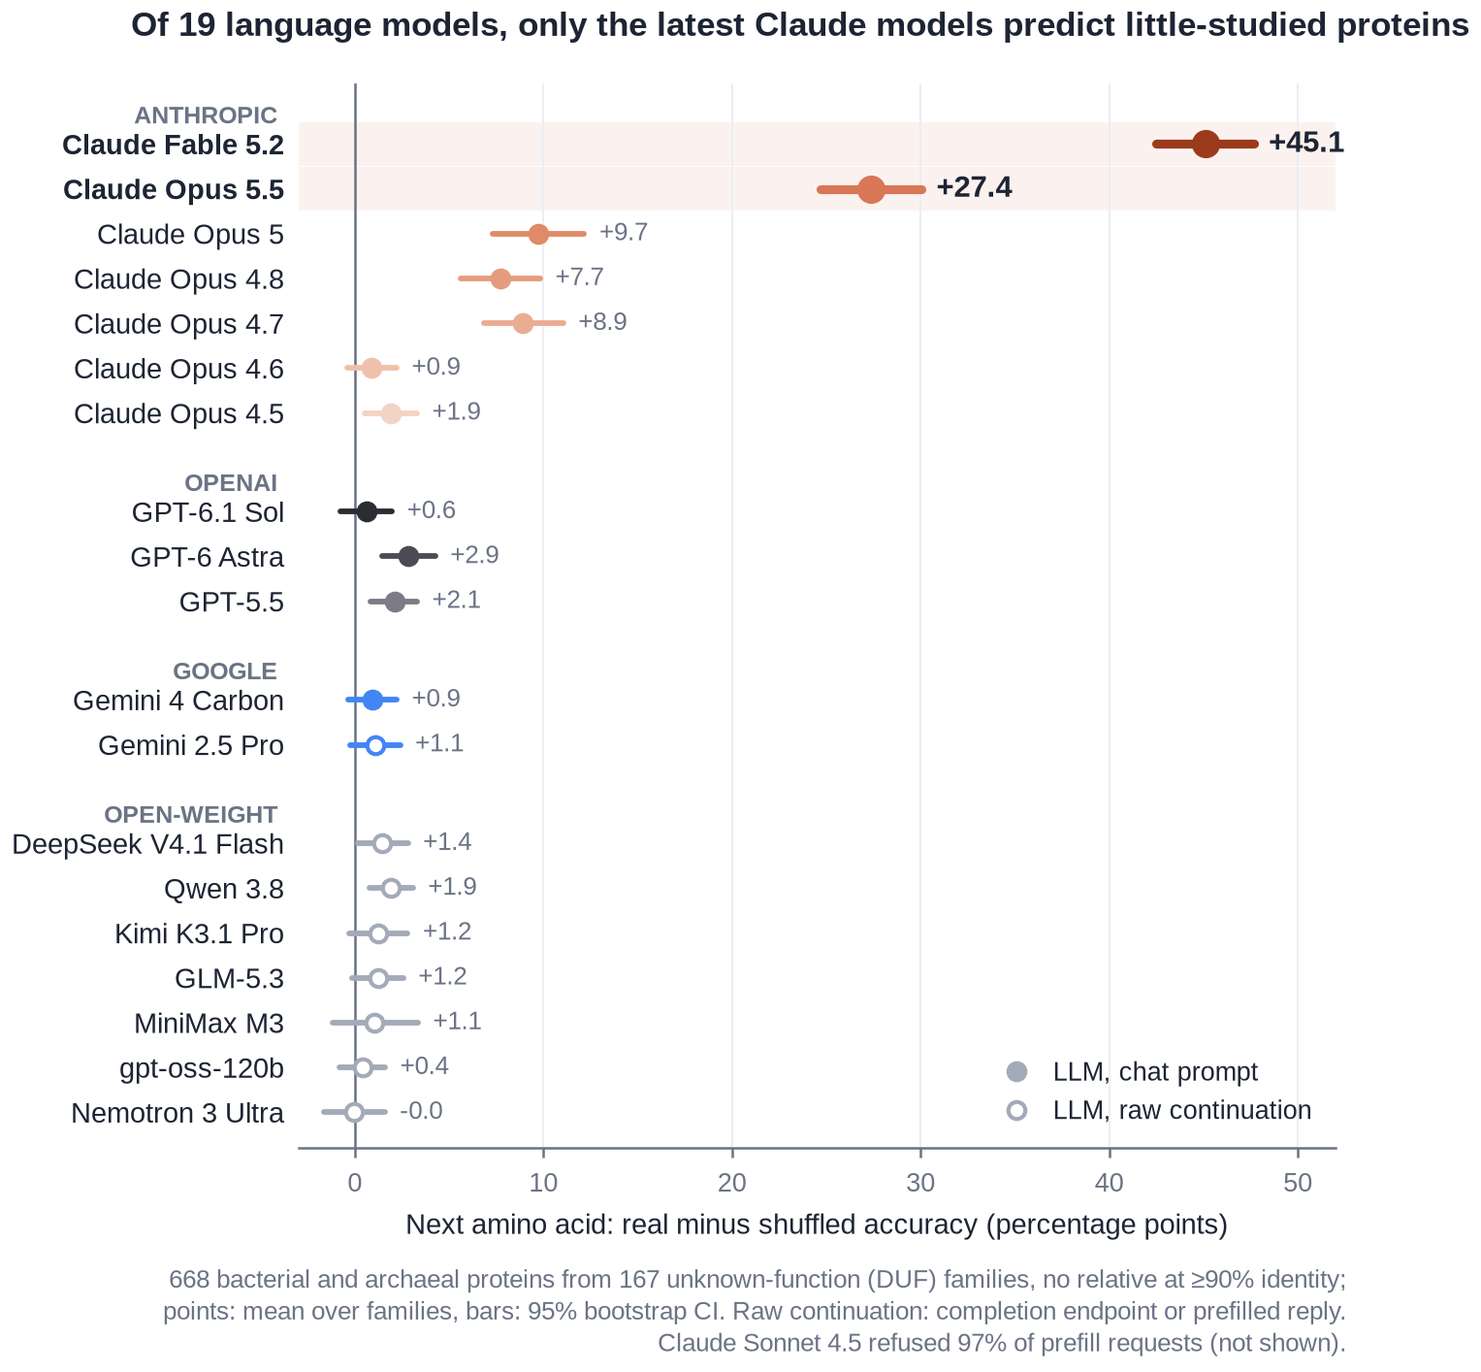
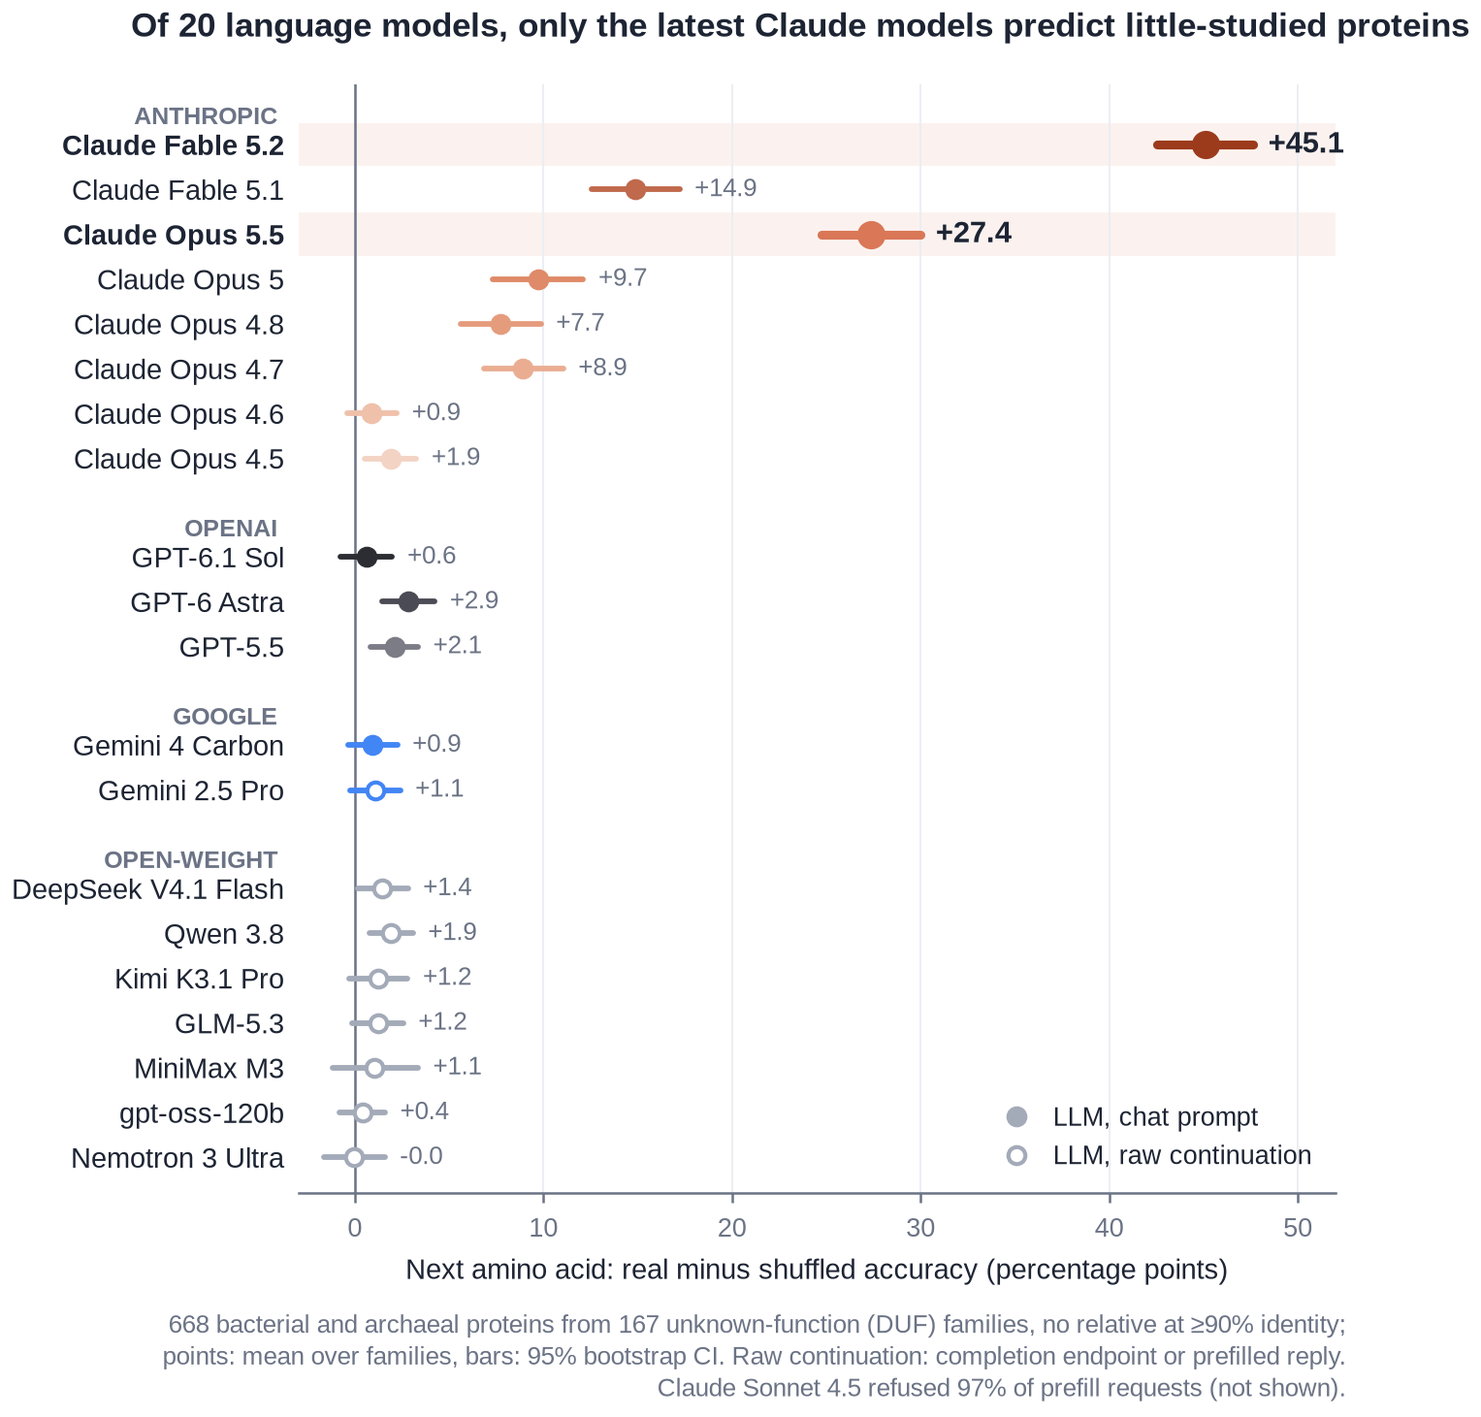
Bioseq post: Fable 5.1, small-family experiment, cleaner family-size figure

diff --git a/_posts/2026-11-16-claude-opus-5-5-protein-sequences.md b/_posts/2026-11-16-claude-opus-5-5-protein-sequences.md
@@ -93,29 +93,35 @@ We also looked at longer continuations: how often a model gets all 10 requested 
 ## Results: only the latest Claude models predict them
 
 <figure class="bp-figure" markdown="0">
-  <img src="{{ '/assets/img/llm-bioseq-probe/fig1_protein.png' | relative_url }}?v=20261117d" alt="Forest plot of the real-minus-shuffled gap for 19 language models: Claude Fable 5.2 at +45.1 points, Claude Opus 5.5 at +27.4, earlier Claude Opus models up to 10, every other model between 0 and 3.">
+  <img src="{{ '/assets/img/llm-bioseq-probe/fig1_protein.png' | relative_url }}?v=20261117e" alt="Forest plot of the real-minus-shuffled gap for 20 language models: Claude Fable 5.2 at +45.1 points, Claude Opus 5.5 at +27.4, Claude Fable 5.1 at +14.9, earlier Claude Opus models up to 10, every other model between 0 and 3.">
   <figcaption>Filled points: the chat prompt. Hollow points: raw next-token continuation of the FASTA text, through a completion endpoint or a prefilled reply, for models that allow it.</figcaption>
 </figure>
 
-Fable 5.2 gets the next amino acid right 54% of the time on real proteins and 9% on shuffled ones, a gap of 45.1 points (95% CI 42.5 to 47.6) that shows up in 98% of families. Opus 5.5's gap is 27.4 points (24.7 to 30.0), in 95% of families. Within the Opus line, Opus 4.5 and 4.6 show nothing, Opus 4.7 to 5 reach 8 to 10 points, and Opus 5.5 jumps to 27. All three GPT models, the newest GPT-6.1 Sol included, stay below 3 points, and the open-weight models stay flat even when they simply continue the raw FASTA text, the way they were trained. The lead is not just on the first residue: at the tenth residue Fable 5.2 is still 38.7 points ahead and Opus 5.5 18.5, and both write runs of correct residues that no other model, and no shuffled protein, gets close to (Appendix B).
+Fable 5.2 gets the next amino acid right 54% of the time on real proteins and 9% on shuffled ones, a gap of 45.1 points (95% CI 42.5 to 47.6) that shows up in 98% of families. Opus 5.5's gap is 27.4 points (24.7 to 30.0), in 95% of families. Within the Opus line, Opus 4.5 and 4.6 show nothing, Opus 4.7 to 5 reach 8 to 10 points, and Opus 5.5 jumps to 27. Fable 5.1 is at 14.9 points, so most of Fable 5.2's lead is new in that release. All three GPT models, the newest GPT-6.1 Sol included, stay below 3 points, and the open-weight models stay flat even when they simply continue the raw FASTA text, the way they were trained. The lead is not just on the first residue: at the tenth residue Fable 5.2 is still 38.7 points ahead and Opus 5.5 18.5, and both write runs of correct residues that no other model, and no shuffled protein, gets close to (Appendix B).
 
 ## Comparison with protein language models
 
 Protein language models learn only from sequences, which makes them a natural yardstick. The closest match to an LLM is ProtGPT3<d-cite key="garibbo2026protgpt3"></d-cite>, released this year: it reads a protein left to right and predicts the next residue, and its 10-billion-parameter version is the largest open model of its kind. Given exactly the same input, Opus 5.5 matches it and Fable 5.2 beats it by 17 points.
 
 <figure class="bp-figure" markdown="0">
-  <img src="{{ '/assets/img/llm-bioseq-probe/fig6_protein_lm.png' | relative_url }}?v=20261117d" alt="Dot plot: Claude Fable 5.2 +45.1 at the top, then ProtGPT3-10B +27.7 and Claude Opus 5.5 +27.4; ESM C 600M +13.0, ProtGPT3-1.3B +11.6, ProtGPT2 +10.2, ESM3-open +8.5 and ESM-2 650M +7.0 well below.">
+  <img src="{{ '/assets/img/llm-bioseq-probe/fig6_protein_lm.png' | relative_url }}?v=20261117e" alt="Dot plot: Claude Fable 5.2 +45.1 at the top, then ProtGPT3-10B +27.7 and Claude Opus 5.5 +27.4; ESM C 600M +13.0, ProtGPT3-1.3B +11.6, ProtGPT2 +10.2, ESM3-open +8.5 and ESM-2 650M +7.0 well below.">
 </figure>
 
-ProtGPT3-10B gets more answers right than Opus 5.5 (38.4% vs 34.9%), but it also does better on shuffled proteins (10.7% vs 7.5%) because it knows amino acid composition better, so the gap, which is what each model knows about order, comes out the same. Fable 5.2 gets 54.1% right on real proteins and 9.0% on shuffled ones. ESM models are built to see both sides of a residue, so this test is harder for them. Appendix C has all seven models.
+ProtGPT3-10B gets more answers right than Opus 5.5 (38.4% vs 34.9%), but it also does better on shuffled proteins (10.7% vs 7.5%) because it knows amino acid composition better, so the gap, which is what each model knows about order, comes out the same. Fable 5.2 gets 54.1% right on real proteins and 9.0% on shuffled ones. ESM models are built to see both sides of a residue, so this test is harder for them. Appendix D has all seven models.
 
 ## Evidence that this comes from training data
 
 <figure class="bp-figure" markdown="0">
-  <img src="{{ '/assets/img/llm-bioseq-probe/fig5_family_size.png' | relative_url }}?v=20261117d" alt="Line chart: Claude Opus 5.5 and ProtGPT3-10B both rise from about 21 to 24 points in families of 300 to 1,000 proteins to 37 points in families over 10,000; Claude Fable 5.2 stays between 41 and 46 in every bin; other models stay near zero.">
+  <img src="{{ '/assets/img/llm-bioseq-probe/fig5_family_size.png' | relative_url }}?v=20261117e" alt="Line chart over seven family-size bins from 20 to over 10,000 proteins: Claude Opus 5.5 rises from 8 to 37 points and ProtGPT3-10B from 3 to 37, almost on top of each other; Claude Fable 5.2 rises from 20 to 44 by families of 300 to 1,000 proteins and then levels off.">
 </figure>
 
-If the signal comes from training on sequences, bigger families should be easier, and they are: Opus 5.5 gains 21 points on families of 300 to 1,000 proteins and 37 on families over 10,000 (Spearman 0.27, p = 0.0002). ProtGPT3-10B, trained on nothing but sequences, traces the same curve, and Opus 4.7 to 5 follow it at a lower level. Fable 5.2 is the exception: it is as good on small families as on large ones (rho 0.00). Two other explanations for the signal don't hold up:
+If the signal comes from training on sequences, bigger families should be easier, because the model has seen more of their relatives. To cover a wide range of sizes we added 90 smaller families, 30 each with 20 to 60, 60 to 150 and 150 to 300 proteins, chosen the same way (Appendix F), for 257 families in all. Bigger families are easier:
+
+- Opus 5.5 goes from 8 points in families of 20 to 60 proteins to 37 in families over 10,000, and ProtGPT3-10B, trained on nothing but sequences, from 3 to 37. Across the 257 families the Spearman correlation with family size is 0.50 for Opus 5.5 and 0.46 for ProtGPT3-10B.
+- Fable 5.2 climbs fastest, from 20 points to 44 by families of 300 to 1,000 proteins, then levels off near 45. On the main set alone it looks flat because it has already reached its ceiling there.
+- Every Claude model from Opus 4.7 on follows the same pattern (Spearman 0.30 to 0.50, all p < 10<sup>-6</sup>), while Opus 4.5 and 4.6 stay flat at zero, as do the GPT models (Appendix C).
+
+Two other explanations for the signal don't hold up:
 
 - **Papers.** In the 128 families with no papers at all, the gap is 26.8 points for Opus 5.5 and 45.9 for Fable 5.2, and for Opus 5.5 it still rises with family size (rho 0.28, p = 0.001). Across families it has nothing to do with how many papers exist (rho 0.05).
 - **Reasoning.** Fable 5.2 writes about 30 tokens per answer, and more than half the time Opus 5.5 answers in 15 tokens or fewer, essentially just the answer, and is still right 35.6% of the time (7.3% on shuffled proteins). GPT-6 Astra and GPT-6.1 Sol think for hundreds of tokens per question and stay near 10%.
@@ -123,7 +129,7 @@ If the signal comes from training on sequences, bigger families should be easier
 ## Famous proteins and variant ranking
 
 <figure class="bp-figure" markdown="0">
-  <img src="{{ '/assets/img/llm-bioseq-probe/fig3_known_vs_obscure.png' | relative_url }}?v=20261117d" alt="Dumbbell chart: on well-known proteins many models score high; on obscure proteins Claude Opus 5.5 and ProtGPT3-10B stay high while Gemini 4 Carbon drops to near zero.">
+  <img src="{{ '/assets/img/llm-bioseq-probe/fig3_known_vs_obscure.png' | relative_url }}?v=20261117e" alt="Dumbbell chart: on well-known proteins many models score high; on obscure proteins Claude Opus 5.5 and ProtGPT3-10B stay high while Gemini 4 Carbon drops to near zero.">
 </figure>
 
 Famous proteins are a different story. Many models do well on them, and several recite hundreds of residues letter for letter (Appendix B), because these sequences are everywhere in papers and on the web. Gemini 4 Carbon scores +47.6 on famous vertebrate proteins and falls to +5.3 on obscure ones. Opus 5.5 holds up (+51.9 to +33.3), and so does ProtGPT3-10B (+51.4 to +38.2). This first round predates Fable 5.2 and GPT-6.1 Sol, so they are not in the figure.
@@ -156,7 +162,7 @@ All code, test sets, model outputs and figures are in [llm-bioseq-probe](https:/
 ### A. DNA
 
 <figure class="bp-figure" markdown="0">
-  <img src="{{ '/assets/img/llm-bioseq-probe/fig2_dna.png' | relative_url }}?v=20261117d" alt="Forest plot by genomic region: Claude Opus 5.5 predicts human and mouse coding sequence; nothing clear elsewhere.">
+  <img src="{{ '/assets/img/llm-bioseq-probe/fig2_dna.png' | relative_url }}?v=20261117e" alt="Forest plot by genomic region: Claude Opus 5.5 predicts human and mouse coding sequence; nothing clear elsewhere.">
 </figure>
 
 220-nucleotide windows, 200 shown and 20 to predict, from hg38, mm39 and the bacterial genes behind the test proteins, 500 per region. Non-coding windows contain no repeats, and the control shuffles each window keeping its dinucleotide counts. Opus 5.5 wrote all 20 nucleotides right 25 times in 500 human coding windows; a blind guess does that about once in a trillion. Gemini 4 Carbon blocks most DNA prompts before answering, so it is not shown.
@@ -165,27 +171,48 @@ All code, test sets, model outputs and figures are in [llm-bioseq-probe](https:/
 
 **All 10 residues right.** Each question asks for the next 10 residues. On the 668 little-studied proteins, Claude Fable 5.2 gets all 10 right at 88 real cuts and Opus 5.5 at 12, and neither at any shuffled one. If their residues were independent guesses at their own per-residue accuracy, they would get 15.8 and 0.56 by chance.
 
-**Every position.** Scored one position at a time, the gap falls slowly: from 45.1 points at the first residue to 38.7 at the tenth for Fable 5.2, and from 27.4 to 18.5 for Opus 5.5. Opus 4.7, 4.8 and 5 fade faster, and the other 14 models, including those run as raw continuation, stay near zero all the way.
+**Every position.** Scored one position at a time, the gap falls slowly: from 45.1 points at the first residue to 38.7 at the tenth for Fable 5.2, and from 27.4 to 18.5 for Opus 5.5. Fable 5.1 and Opus 4.7, 4.8 and 5 fade faster, and the other 14 models, including those run as raw continuation, stay near zero all the way.
 
 <figure class="bp-figure" markdown="0">
-  <img src="{{ '/assets/img/llm-bioseq-probe/fig7_by_position.png' | relative_url }}?v=20261117d" alt="Line chart: real-minus-shuffled gap at positions 1 to 10 of the reply; Claude Opus 5.5 falls from 27.4 to 18.5, Opus 4.7 to 5 from about 9 to between 2 and 5, other models near zero.">
+  <img src="{{ '/assets/img/llm-bioseq-probe/fig7_by_position.png' | relative_url }}?v=20261117e" alt="Line chart: real-minus-shuffled gap at positions 1 to 10 of the reply; Claude Opus 5.5 falls from 27.4 to 18.5, Opus 4.7 to 5 from about 9 to between 2 and 5, other models near zero.">
 </figure>
 
 **Runs in a row.** Fable 5.2 gets the first 2 residues right 34% of the time, the first 5 11% and all 10 2.6%; Opus 5.5 16%, 3% and 0.4%. On shuffled proteins neither gets past 3. Once on track they get surer: after one right residue, Opus 5.5 gets the next right 47% of the time, after four in a row 68%.
 
 <figure class="bp-figure" markdown="0">
-  <img src="{{ '/assets/img/llm-bioseq-probe/fig8_runs.png' | relative_url }}?v=20261117d" alt="Line chart: share of replies whose first k residues are all right; Claude Opus 5.5 starts at 35% and stays above other models out to 10 residues, while its shuffled curve drops to zero by 3.">
+  <img src="{{ '/assets/img/llm-bioseq-probe/fig8_runs.png' | relative_url }}?v=20261117e" alt="Line chart: share of replies whose first k residues are all right; Claude Opus 5.5 starts at 35% and stays above other models out to 10 residues, while its shuffled curve drops to zero by 3.">
 </figure>
 
 **Reciting well-known proteins.** At 158 points in well-studied proteins, each model was asked for the next 200 residues at once.
 
 <figure class="bp-figure" markdown="0">
-  <img src="{{ '/assets/img/llm-bioseq-probe/fig4_recall.png' | relative_url }}?v=20261117d" alt="Bar chart: how often each model continues a famous protein letter for letter for 50, 100 and 200 residues.">
+  <img src="{{ '/assets/img/llm-bioseq-probe/fig4_recall.png' | relative_url }}?v=20261117e" alt="Bar chart: how often each model continues a famous protein letter for letter for 50, 100 and 200 residues.">
 </figure>
 
 Opus 5.5 gets past 100 residues 24 times (longest run 305), Gemini 4 Carbon 23 times (201), Opus 5 14 times (325). GPT-6.1 Sol never reaches 100, and GPT-5.5 never gets past 2. 
 
-### C. Protein language models
+### C. Family size for every model
+
+<figure class="bp-figure" markdown="0">
+  <img src="{{ '/assets/img/llm-bioseq-probe/fig5b_family_size_all.png' | relative_url }}?v=20261117e" alt="Line chart: the gap by family size for 12 language models and ProtGPT3-10B; Claude Fable 5.2, Opus 5.5 and ProtGPT3-10B rise steeply, Fable 5.1 and Opus 4.7 to 5 rise at a lower level, Opus 4.5 and 4.6, GPT and Gemini stay near zero.">
+</figure>
+
+| Model | 20–60 | 60–150 | 150–300 | 300–1k | 1k–3k | 3k–10k | >10k | Spearman |
+|---|---|---|---|---|---|---|---|---|
+| Claude Fable 5.2 | +19.5 | +24.0 | +35.5 | +44.1 | +46.0 | +46.4 | +41.5 | 0.38 |
+| Claude Opus 5.5 | +7.9 | +7.4 | +14.4 | +21.2 | +26.0 | +31.7 | +36.7 | 0.50 |
+| ProtGPT3-10B | +3.2 | +6.5 | +10.7 | +23.9 | +25.3 | +30.6 | +37.1 | 0.46 |
+| Claude Fable 5.1 | +2.5 | −0.2 | +3.2 | +9.6 | +14.6 | +17.5 | +23.5 | 0.48 |
+| Claude Opus 5 | −1.6 | −0.2 | +1.2 | +5.6 | +6.4 | +12.8 | +22.8 | 0.36 |
+| Claude Opus 4.8 | +0.5 | +1.4 | +3.7 | +4.4 | +3.6 | +10.6 | +21.1 | 0.30 |
+| Claude Opus 4.7 | +2.8 | −0.8 | +2.8 | +3.3 | +7.5 | +12.3 | +19.7 | 0.36 |
+| Claude Opus 4.6 | −0.5 | +1.5 | +1.3 | +2.7 | −0.1 | +0.9 | −1.5 | −0.03 |
+| Claude Opus 4.5 | +0.2 | +0.5 | −0.5 | +2.6 | +2.7 | +1.9 | −2.6 | 0.05 |
+| GPT-5.5 | −2.2 | +0.8 | +0.7 | +2.7 | +0.4 | +2.6 | +3.8 | 0.14 |
+
+Real minus shuffled, in points, by the number of proteins in the family; Spearman correlation of a family's gap with the log of its size, over all 257 families. GPT-6.1 Sol, GPT-6 Astra and Gemini 4 Carbon are still running on the small-family set and will be added.
+
+### D. Protein language models
 
 | Model | Reads | Input | Real | Shuffled | Real minus shuffled, points (95% CI) |
 |---|---|---|---|---|---|
@@ -199,17 +226,20 @@ Opus 5.5 gets past 100 residues 24 times (longest run 305), Gemini 4 Carbon 23 t
 
 The last row is fill-in-the-blank rather than continuation: ESM-2 also sees the residues after the cut, which the LLMs never get. Every model first passed a sanity check on well-known proteins. Continuing ubiquitin and hemoglobin β from the left, ProtGPT3-10B gets 100% and 84% of residues right; with the whole protein and one residue masked, ESM-2 gets 80% of ubiquitin, ESM C and ESM3-open 100%. Masks are set on token ids, because the ESM SDK's "_" character is not ESM C's mask token. ProtGPT2 uses multi-residue tokens, so a residue's probability is the sum over the tokens that start with it; ProtGPT3 uses one token per residue.
 
-### D. Robustness
+### E. Robustness
 
 - **Prompt format.** Asking Opus 5.5 to copy the sequence and then continue gives the same gap as the standard prompt (19.3 vs 19.8 points on the same subset of questions).
 - **Refusals.** Non-answers are excluded and counted: 1% for Opus 5.5. Counting them as wrong moves its gap by under 1 point. GPT-4o, DeepSeek, Qwen, Kimi, GLM and gpt-oss often declined to guess a sequence; a best-guess prompt made them answer and did not change the picture.
 - **No instruction.** Sent the sequence alone, with no request to continue it, GPT-5.5 and Opus 5.5 almost always describe it instead (on a sample of 400 questions each), so chat models need the instruction.
+- **Claude Fable 5.** Anthropic's usage-policy filter blocked 44% of Fable 5's questions, so it is left out of the main figures. On the questions it answered its gap is 13.9 points; counting blocked questions as wrong gives 11.6, and keeping only the cuts answered on both the real and the shuffled protein gives 14.6. Fable 5.1 and 5.2 were blocked 2.5% and 0% of the time.
 - **Repeat runs.** Asked 400 of the same questions again, Fable 5.2 scores 57.5% on real and 9.5% on shuffled proteins, against 57.5% and 8.5% the first time.
 - **A first round.** A smaller run of 20 models on 37 families, half well-known and half obscure, gave the same picture and set the design of the main run.
 
-### E. Methods
+### F. Methods
 
 **Choosing the proteins.** We started from every Pfam family whose name says "domain of unknown function" (DUF) or "protein of unknown function", and kept those with no structure in the PDB, at most 3 Europe PMC hits for the family's accession, and at least 300 member proteins. We binned them by size (300 to 1,000 proteins, 1,000 to 3,000, 3,000 to 10,000, over 10,000) and drew 50 families per bin at random; only 17 families qualify above 10,000, so the set has 167. From each family we took 4 proteins from UniProt that are unreviewed (TrEMBL), come from Bacteria or Archaea, are 120 to 800 residues long, use only the 20 standard amino acids, are not low-complexity (Shannon entropy above 3.9 bits per residue), and are alone in their UniRef90 cluster, so no other UniProt protein is 90% or more identical to them. That gives 668 proteins.
+
+**Smaller families.** For the family-size test we drew 30 more families in each of three smaller bins (20 to 60, 60 to 150 and 150 to 300 proteins) with the same criteria and 4 proteins per family, 360 proteins in all. Every model gets the same prompt and scoring as on the main set.
 
 **Cutting.** Each protein is cut at 5 positions drawn at random inside its Pfam domain (the longest domain span, at least 40 residues), at least 10 residues from either end of the domain and with at least 30 residues before the cut: 3,340 cuts. Everything before the cut is the prefix; the residue right after it is the answer.
 
@@ -225,7 +255,7 @@ MRSGGQPLHPQPAHRFHYRTAARPRAAWILGCVLHLADAEEGARFWWQYAAGAGDDAAAY
 CLYLHCLVLGDSYAAALWREQTSLDTPPHDFDDTSVPTVLRILSRLTPA
 ```
 
-Each model runs through its own API with temperature 0 where it is accepted, thinking off or at its lowest setting, no tools, and one sample per question. Claude Fable 5.2 runs through OpenRouter, since Anthropic's API serves it only to workspaces that retain data. Models that declined to guess (GPT-4o, DeepSeek, Qwen, Kimi, GLM, gpt-oss) also got a version that adds "Give your best guess even if you are uncertain. Do not explain or refuse."; those runs are marked separately.
+Each model runs through its own API with temperature 0 where it is accepted, thinking off or at its lowest setting, no tools, and one sample per question. The Claude Fable models run through OpenRouter, since Anthropic's API serves them only to workspaces that retain data. Models that declined to guess (GPT-4o, DeepSeek, Qwen, Kimi, GLM, gpt-oss) also got a version that adds "Give your best guess even if you are uncertain. Do not explain or refuse."; those runs are marked separately.
 
 **Scoring.** We take the last line of the reply, keep its letters and read the first one as the predicted next amino acid. A question counts only if that line contains nothing but the 20 standard letters; refusals and other non-answers are excluded and counted (1% for Opus 5.5). Only this first residue is scored. We asked for 10 so that the answer is a sequence rather than a single letter, and used the full 10 only to count exact continuations.
 
@@ -237,8 +267,8 @@ Each model runs through its own API with temperature 0 where it is accepted, thi
 
 **Protein language models.** They get the same prefix and no prompt. ProtGPT3 and ProtGPT2 read it left to right and give a probability for the next token; the ESM models see the prefix, a mask in place of the next residue, and the end of the sequence. In every case the prediction is the most likely of the 20 standard amino acids.
 
-Total API cost was about $520, plus a few dollars of GPU time for the protein language models.
+Total API cost was about $700, plus a few dollars of GPU time for the protein language models.
 
-### F. Safety behaviour seen along the way
+### G. Safety behaviour seen along the way
 
-Gemini 4 Carbon blocked about 75% of DNA prompts outright. OpenAI rejected 23 GPT-6 requests in the first round and 17 GPT-6.1 Sol requests in the main run as possible biological misuse. Claude Sonnet 4.5 refused 97% of requests that started its reply with a protein sequence.
+Gemini 4 Carbon blocked about 75% of DNA prompts outright. OpenAI rejected 23 GPT-6 requests in the first round and 17 GPT-6.1 Sol requests in the main run as possible biological misuse. Claude Sonnet 4.5 refused 97% of requests that started its reply with a protein sequence, and Anthropic's filter blocked 44% of Claude Fable 5's questions as cyber content.
